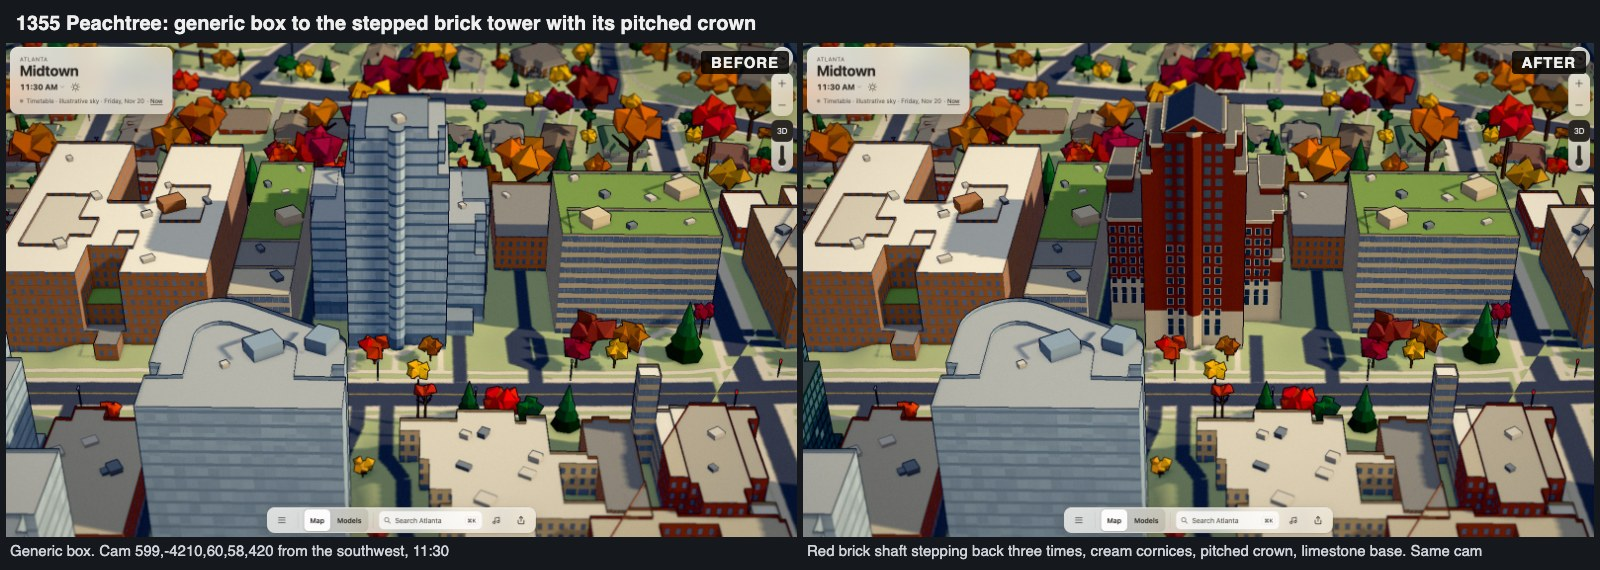
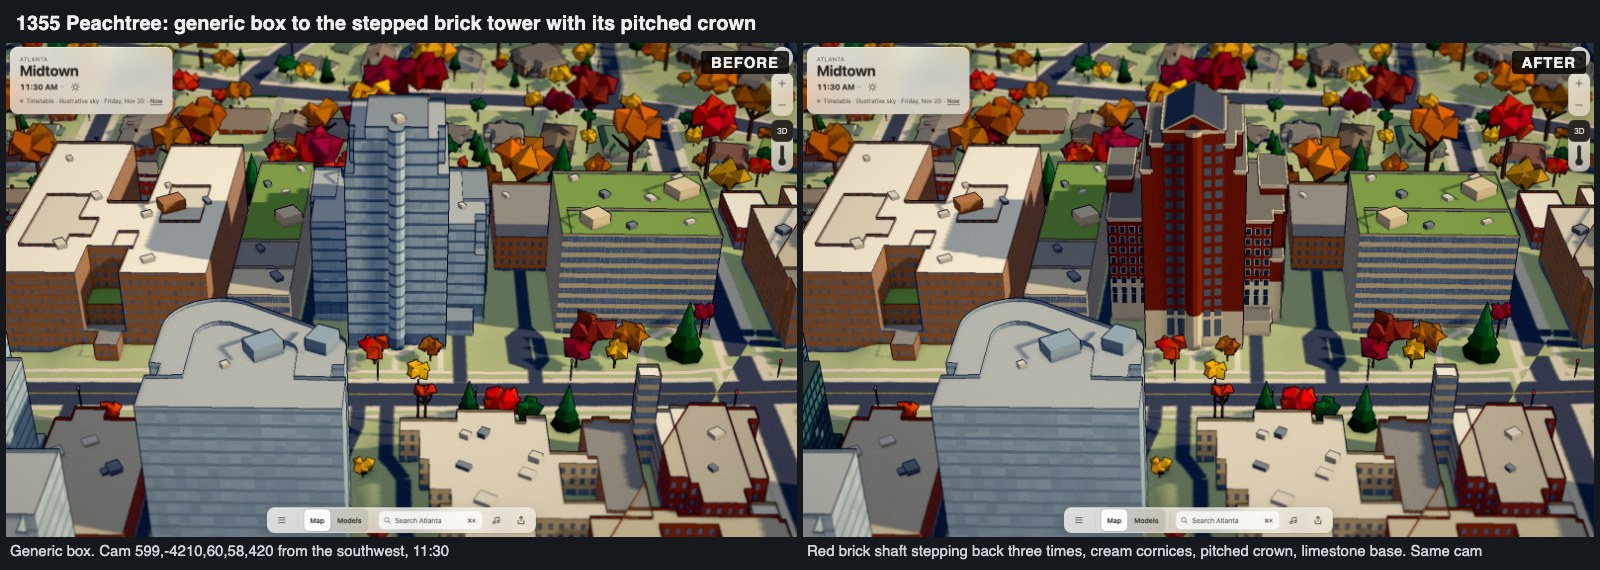
Address 1355 review: crown on the wall plane, per-bay openness, entrance blocks, per-part framing

Changed region(s): [[0.7188, 0.2982, 0.8125, 0.5965], [0.7188, 0.1491, 0.7812, 0.2386]]

diff --git a/web/src/city/peachtree-1355.ts b/web/src/city/peachtree-1355.ts
@@ -22,7 +22,10 @@ const parts: [id: string, roof: number][] = [
   ['osm:way:1450754140', 32.4], // podium wings
   ['osm:way:1450754141', 28.9],
   ['osm:way:1450754135', 21.6], // the mapped low wing (no clean lidar sample)
+  ['osm:way:1450754139', 3.6], // entrance blocks: limestone steps and porch
+  ['osm:way:1450754142', 3.6],
 ];
+const podiumFrom = 3; // parts from this index on are the podium and its entrances
 const crownEave = 72.6, crownRidge = 77.1; // lidar p50 74.8, max 77.1: a pitched crown
 const limestoneTop = 13.2; // the pale classical base: three storeys
 const storey = 3.6;
@@ -34,7 +37,7 @@ export function create1355Peachtree(buildings: VBuilding[], site: VBuilding, gri
   if (rings.some(r => !r || r.length < 3)) return null;
   const shell = landmarkShell(buildings, grid, site.id, '1355 Peachtree', origin, [1, 0], [[0, 0], [-25, 5], [25, -10]]);
   if (!shell) return null;
-  const P = rings.map((r, i) => ({ ring: wound(clean(r!), 1), roof: parts[i][1] }));
+  const P = rings.map((r, i) => ({ ring: wound(clean(r!), 1), roof: parts[i][1], crown: i === 0, podium: i >= podiumFrom }));
   const out = outwardSign(P[0].ring);
   const floor = site.floorY === undefined ? shell.base + 0.35 : site.floorY + grid.manifest.vertical.sceneZeroNavd88M;
   const footing = Math.min(floor, shell.base) - 0.65;
@@ -44,19 +47,20 @@ export function create1355Peachtree(buildings: VBuilding[], site: VBuilding, gri
     for (const [a, b, c] of ShapeUtils.triangulateShape(ring.map(([x, z]) => new Vector2(x, z)), []))
       body.tri([ring[a][0], y, ring[a][1]], [ring[c][0], y, ring[c][1]], [ring[b][0], y, ring[b][1]], color);
   };
-  /** Open air just outside the face at height y (no taller part there). */
-  const open = (ring: P2[], a: P2, b: P2, length: number, y: number) => {
-    const m = along(a, b, length, length / 2, 1.2 * out);
+  /** Open air just outside the face at `u` metres along it, at height y (no taller part there). */
+  const open = (ring: P2[], a: P2, b: P2, length: number, y: number, u = length / 2) => {
+    const m = along(a, b, length, u, 1.2 * out);
     return !P.some(p => p.ring !== ring && floor + p.roof > y && pointInRing(m[0], m[1], p.ring));
   };
 
-  for (const { ring, roof: h } of P) {
-    const top = floor + (h === 74.8 ? crownEave : h);
+  for (const { ring, roof: h, crown, podium } of P) {
+    const top = floor + (crown ? crownEave : h);
     // Limestone base, brick above, and a cream cornice band at every setback.
     shell.prism(ring, footing, Math.min(top, floor + limestoneTop), cream, '#8f8a80', { wall: surfaces.limestone({ course: 0.6 }) });
     if (top > floor + limestoneTop)
       shell.prism(ring, floor + limestoneTop, top - 1.4, brick, '#8f8a80', { wall: surfaces.brick() });
-    shell.prism(ring, Math.max(floor + limestoneTop, top - 1.4), top, cream, '#8a857c', { wall: surfaces.limestone({ course: 0.7 }) });
+    if (top > floor + limestoneTop)
+      shell.prism(ring, Math.max(floor + limestoneTop, top - 1.4), top, cream, '#8a857c', { wall: surfaces.limestone({ course: 0.7 }) });
     roof(ring, top, '#8a857c');
     // A projecting cornice: a thin cream lip 0.5 m out, all round.
     faces(ring, (a, b, length) => {
@@ -70,17 +74,17 @@ export function create1355Peachtree(buildings: VBuilding[], site: VBuilding, gri
       if (length < 6) return;
       const bays = Math.max(1, Math.round(length / 3.2));
       for (let y = floor + 4.6; y + 2.3 < top - 1.6; y += storey) {
-        if (!open(ring, a, b, length, y + 1)) continue;
         // The base storey has tall arched-looking openings; above, regular sash windows.
         const tall = y < floor + 5;
         for (let k = 0; k < bays; k++) {
           const u = (k + 0.5) * length / bays, w = Math.min(1.5, length / bays * 0.48);
+          if (!open(ring, a, b, length, y + 1, u)) continue;
           const p = along(a, b, length, u - w / 2, 0.06 * out), q = along(a, b, length, u + w / 2, 0.06 * out);
           const pf = along(a, b, length, u - w / 2 - 0.28, 0.04 * out), qf = along(a, b, length, u + w / 2 + 0.28, 0.04 * out);
           const y1 = y + (tall ? 3.4 : 2.1);
           // White frames read only from street views; on the shaft the window is one quad in a
           // frame-and-glass mean tone, which halves its triangles.
-          const framed = y < floor + 36;
+          const framed = podium;
           if (framed) shell.paint(FLAT, () => body.quad([pf[0], y - 0.15, pf[1]], [pf[0], y1 + 0.2, pf[1]], [qf[0], y1 + 0.2, qf[1]], [qf[0], y - 0.15, qf[1]], frame));
           // Offices at 23:30: about one window in twelve still lit, in small clusters.
           const lit = random() < 0.085;
@@ -99,8 +103,12 @@ export function create1355Peachtree(buildings: VBuilding[], site: VBuilding, gri
     // Peachtree runs north-northeast here; the ridge runs across it.
     const along_ = [0.48, 0.88], across = [0.88, -0.48];
     const proj = (p: P2, d: number[]) => p[0] * d[0] + p[1] * d[1];
-    const us = ring.map(p => proj(p, along_)), vs = ring.map(p => proj(p, across));
-    const u0 = Math.min(...us) + 1, u1 = Math.max(...us) - 1, v0 = Math.min(...vs) + 1, v1 = Math.max(...vs) - 1;
+    // Bounds from the straight walls only (edges over 4 m), so the bay on Peachtree doesn't push
+    // the pediment out past the wall plane.
+    const wall: P2[] = [];
+    faces(ring, (a, b) => { wall.push(a, b); }, 4);
+    const us = wall.map(p => proj(p, along_)), vs = wall.map(p => proj(p, across));
+    const u0 = Math.min(...us) + 0.6, u1 = Math.max(...us) - 0.6, v0 = Math.min(...vs), v1 = Math.max(...vs);
     const at = (u: number, v: number, y: number) => [u * along_[0] + v * across[0], y, u * along_[1] + v * across[1]];
     const eave = floor + crownEave, ridge = floor + crownRidge, um = (u0 + u1) / 2;
     shell.paint(surfaces.slate(), () => {
@@ -124,13 +132,13 @@ export function create1355Peachtree(buildings: VBuilding[], site: VBuilding, gri
   return result;
 }
 
-/** Drops vertices that close an edge shorter than 1.5 m (the mapped parts' small jogs and arcs). */
+/** Drops vertices that close an edge shorter than 1 m (the mapped parts' small jogs and arcs). */
 function clean(ring: P2[]): P2[] {
   const out: P2[] = [];
   for (const p of ring) {
     const last = out[out.length - 1];
-    if (!last || Math.hypot(p[0] - last[0], p[1] - last[1]) >= 1.5) out.push(p);
+    if (!last || Math.hypot(p[0] - last[0], p[1] - last[1]) >= 1) out.push(p);
   }
-  while (out.length > 3 && Math.hypot(out[0][0] - out[out.length - 1][0], out[0][1] - out[out.length - 1][1]) < 1.5) out.pop();
+  while (out.length > 3 && Math.hypot(out[0][0] - out[out.length - 1][0], out[0][1] - out[out.length - 1][1]) < 1) out.pop();
   return out;
 }

diff --git a/docs/log/ui/1355-peachtree/README.md b/docs/log/ui/1355-peachtree/README.md
@@ -14,7 +14,7 @@
 | `…140`, `…141` | 28.8, 21.6 | 32.4, 28.9 | podium wings |
 | `…135` | 21.6 | no clean sample | kept at its mapped height |
 
-The two 3.6 m entrance parts (`…139`, `…142`) are not drawn.
+The two 3.6 m entrance parts (`…139`, `…142`) are drawn as low limestone blocks.
 
 ## Evidence
 
@@ -25,7 +25,7 @@ The two 3.6 m entrance parts (`…139`, `…142`) are not drawn.
 
 ## Model
 
-The walls use the library's brick and limestone surfaces, and the crown roof is slate. Biltmore and the other Midtown landmarks already compile that painted program. The window glass and frames stay flat inside the painted walls. Framed windows (glass plus a white frame) stop at the podium line. On the shaft, each window is one quad in a frame-and-glass mean tone, which halves its triangles: 3,916 in all. Lit windows are in the lamp mesh, which receives shadows so the windows match by day.
+The walls use the library's brick and limestone surfaces, and the crown roof is slate. Biltmore and the other Midtown landmarks already compile that painted program. The window glass and frames stay flat inside the painted walls. Framed windows (glass plus a white frame) stop at the podium line. On the shaft, each window is one quad in a frame-and-glass mean tone, which halves its triangles: 3,868 in all. Lit windows are in the lamp mesh, which receives shadows so the windows match by day.
 
 | View | Camera | Local time, 20 November 2026 | Capture |
 |---|---|---|---|
